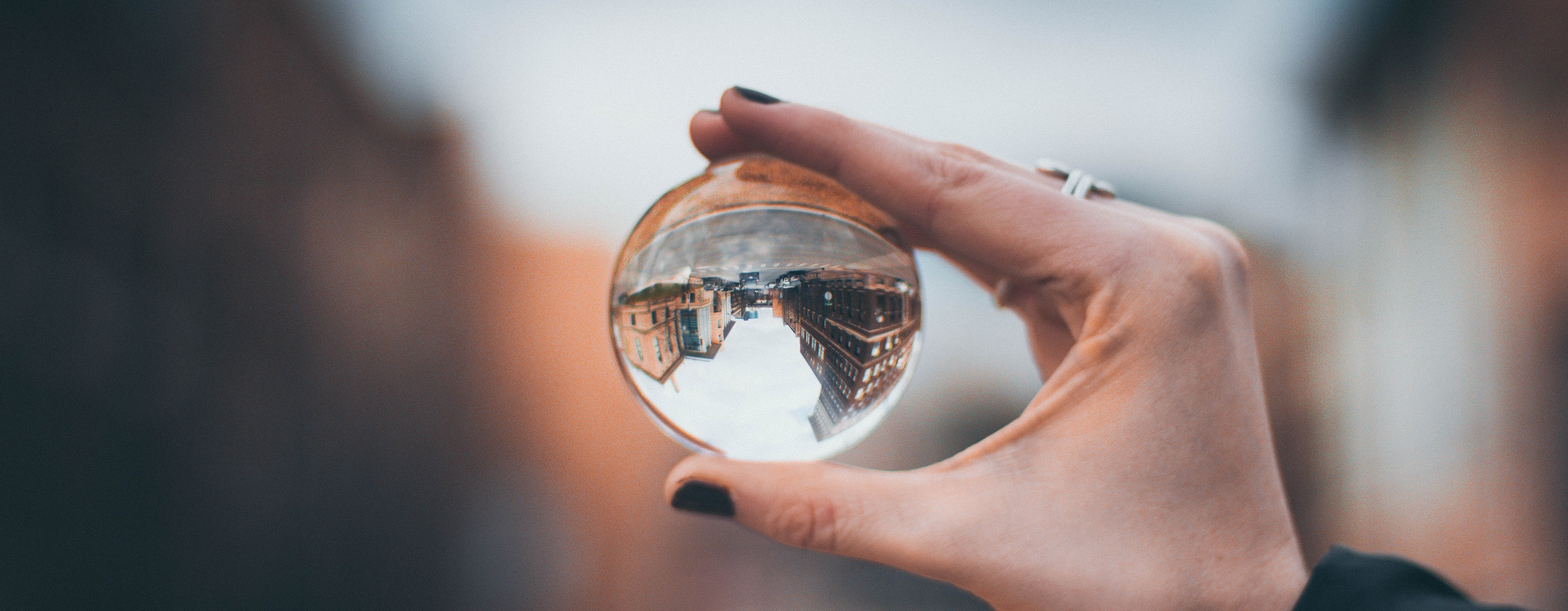
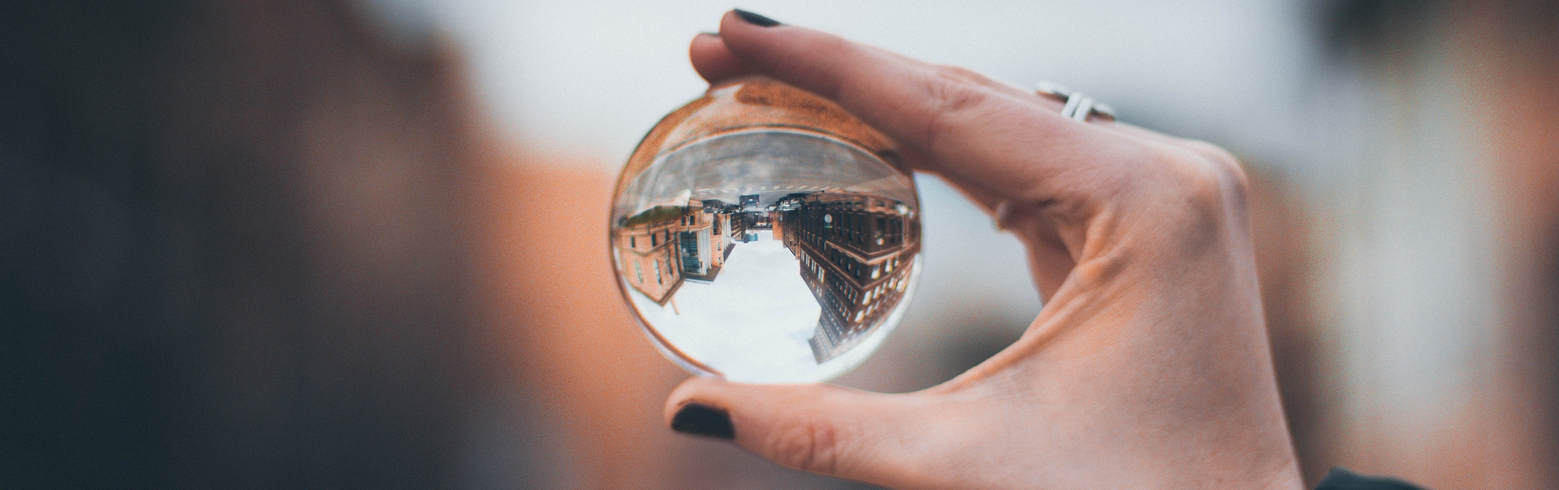
Introduction image

diff --git a/_posts/2018-12-24-Introduction.md b/_posts/2018-12-24-Introduction.md
@@ -3,7 +3,7 @@ title: "Introduction"
 date: 2018-12-24
 tags: [machine learning, data science, neural network, experience]
 header:
-  image: "/images/introduction/intro2.jpg"
+  image: "/images/introduction/intro3.jpg"
 excerpt: "Machine Learning, Data Science"
 mathjax: "true"
 ---
